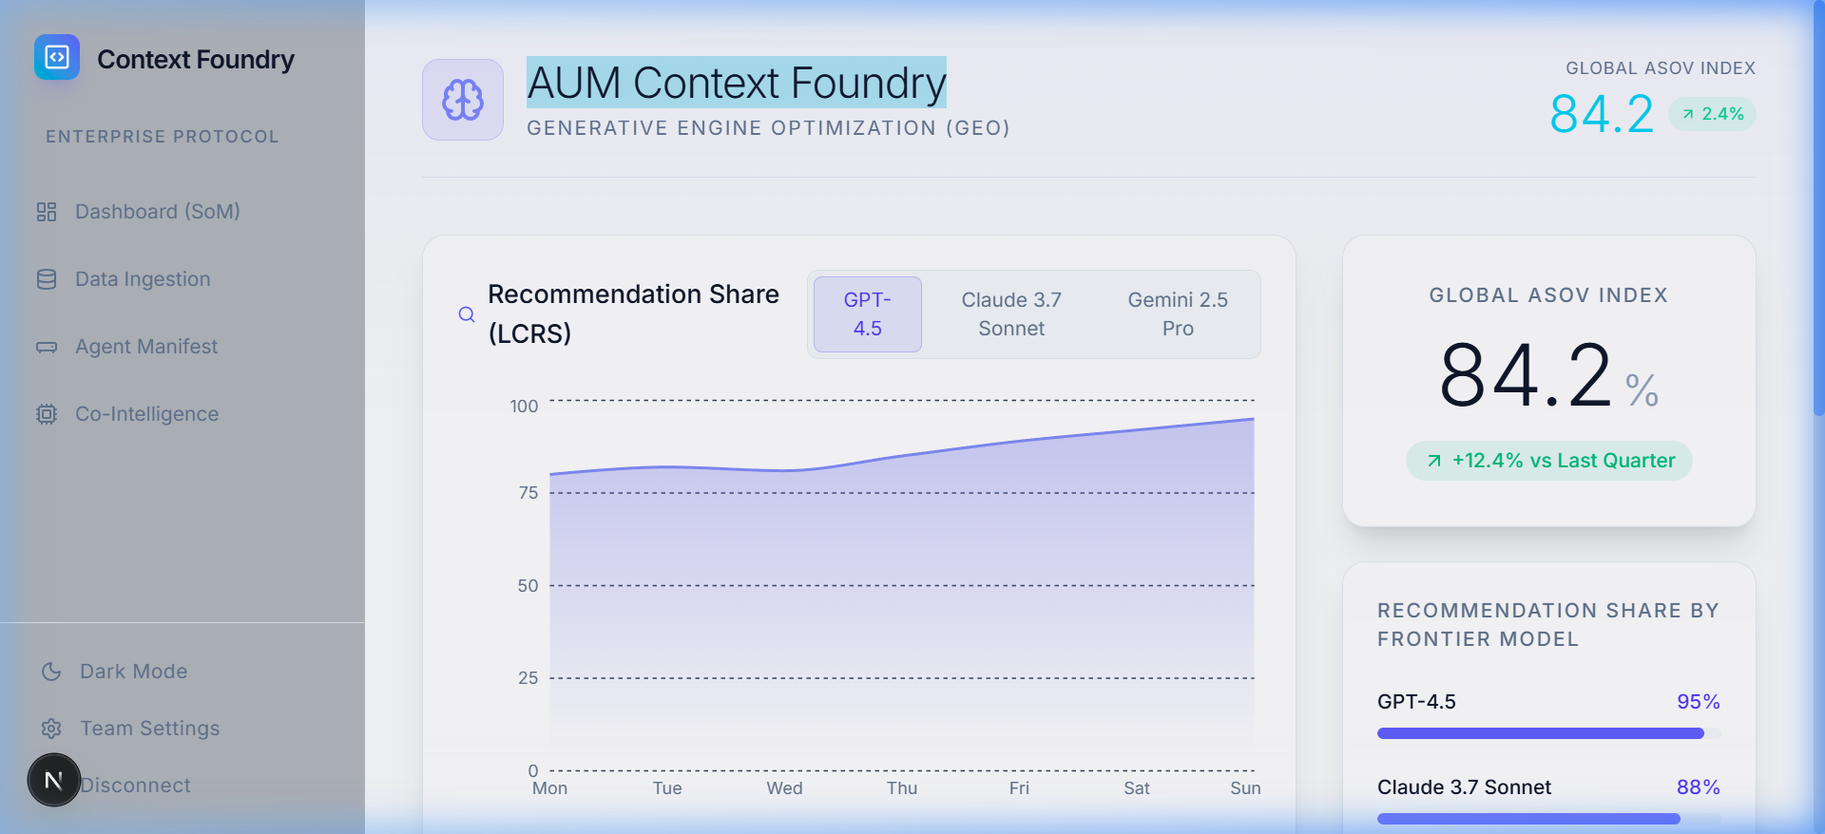
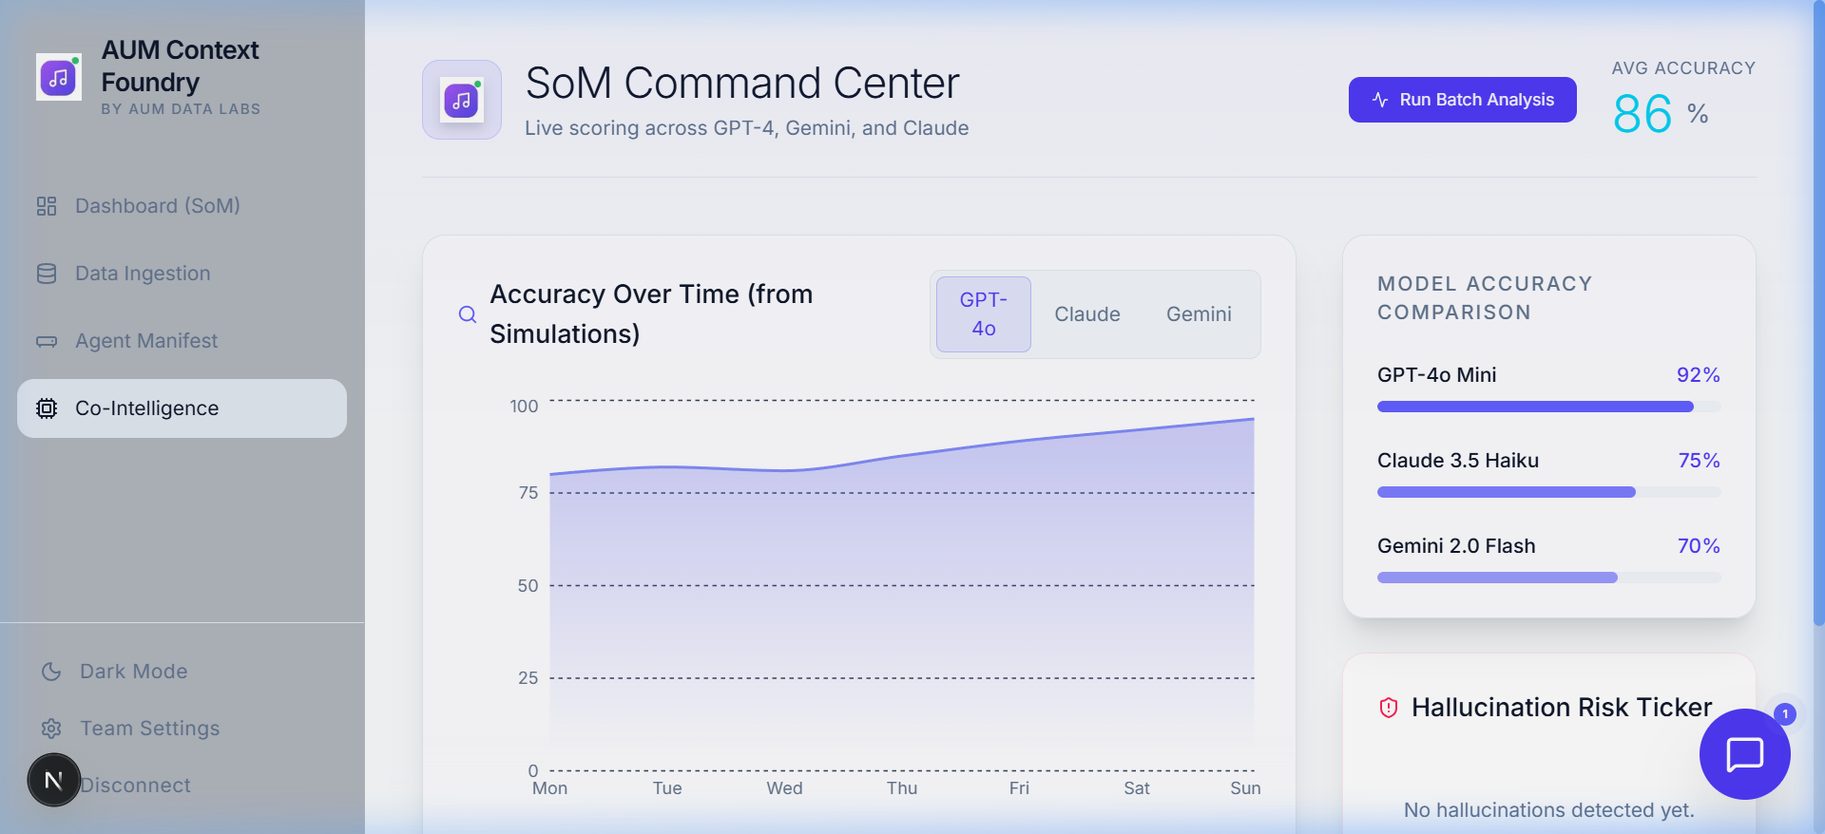
feat: Align pricing, features, and mockups

diff --git a/frontend/src/app/page.tsx b/frontend/src/app/page.tsx
@@ -49,6 +49,7 @@ export default function LandingPage() {
                     <div className="hidden md:flex items-center space-x-8 text-sm font-medium text-slate-600 dark:text-slate-400">
                         <a href="#moat" className="hover:text-indigo-600 dark:hover:text-white transition-colors">The Moat</a>
                         <a href="#features" className="hover:text-cyan-600 dark:hover:text-white transition-colors">Platform</a>
+                        <a href="#pricing" className="hover:text-fuchsia-600 dark:hover:text-white transition-colors">Pricing</a>
                         <a href="#demo" className="hover:text-fuchsia-600 dark:hover:text-white transition-colors">Demo</a>
                         <Link href="/contact" className="hover:text-emerald-600 dark:hover:text-white transition-colors">Contact</Link>
                     </div>
@@ -286,63 +287,144 @@ export default function LandingPage() {
                     </div>
                 </section>
 
-                {/* Brutally Honest Testimonials */}
-                <section id="proof" className="max-w-7xl mx-auto px-6 py-24 border-t border-slate-200 dark:border-white/5">
+                {/* Trust & Capabilities Strip */}
+                <section className="max-w-7xl mx-auto px-6 py-24 border-t border-slate-200 dark:border-white/5">
                     <div className="text-center mb-16">
-                        <h2 className="text-3xl md:text-4xl font-light tracking-tight mb-4 text-slate-900 dark:text-white">Zero Hallucinated Proof</h2>
-                        <p className="text-slate-600 dark:text-slate-400 max-w-2xl mx-auto leading-relaxed">
-                            We don't buy fake reviews. AUM Context Foundry is a bleeding-edge early-adopter product.<br />
-                            We are currently onboarding our Alpha Cohort. Once our clients' ASoV verifiable metrics cross target thresholds next quarter, their quotes will go here.
-                        </p>
+                        <h2 className="text-sm font-semibold text-indigo-600 dark:text-indigo-400 uppercase tracking-[0.3em] mb-4">Built for Enterprise</h2>
+                        <h3 className="text-4xl md:text-5xl font-light tracking-tight text-slate-900 dark:text-white">Production-Grade Infrastructure</h3>
                     </div>
 
-                    <div className="grid md:grid-cols-3 gap-8">
-                        {[1, 2, 3].map((i) => (
-                            <div key={i} className="relative group">
-                                <div className="absolute -inset-1 bg-gradient-to-tr from-slate-200 to-slate-100 dark:from-white/5 dark:to-white/5 rounded-2xl blur opacity-30 group-hover:opacity-60 transition duration-700"></div>
-                                <div className="relative rounded-xl border border-dashed border-slate-300 dark:border-white/10 bg-slate-50/50 dark:bg-[#0a0a0a]/50 p-8 shadow-sm flex flex-col items-center justify-center h-full text-center">
-                                    <div className="w-12 h-12 rounded-full bg-slate-200 dark:bg-slate-800 flex items-center justify-center mb-4 text-slate-400 dark:text-slate-500">
-                                        <svg className="w-6 h-6" fill="currentColor" viewBox="0 0 24 24"><path d="M24 20.993V24H0v-2.996A14.977 14.977 0 0112.004 15c4.904 0 9.26 2.354 11.996 5.993zM16.002 8.999a4 4 0 11-8 0 4 4 0 018 0z" /></svg>
-                                    </div>
-                                    <p className="text-sm font-medium text-slate-500 uppercase tracking-widest mb-2">Reserved Space</p>
-                                    <p className="text-slate-400 dark:text-slate-500 italic text-sm">Waiting for verified semantic indexing results algorithmically.</p>
-                                </div>
-                            </div>
+                    <div className="grid grid-cols-2 md:grid-cols-4 gap-6">
+                        {[
+                            { metric: '3', label: 'LLM Providers', sub: 'GPT-4o · Claude · Gemini', cls: 'text-indigo-600 dark:text-indigo-400' },
+                            { metric: '99.99%', label: 'Uptime SLA', sub: 'Multi-region deployment', cls: 'text-emerald-600 dark:text-emerald-400' },
+                            { metric: '< 50ms', label: 'Scoring Latency', sub: 'Real-time analysis', cls: 'text-cyan-600 dark:text-cyan-400' },
+                            { metric: 'SOC2', label: 'Compliance Ready', sub: 'Zero-retention processing', cls: 'text-fuchsia-600 dark:text-fuchsia-400' },
+                        ].map((item) => (
+                            <motion.div
+                                key={item.label}
+                                initial={{ opacity: 0, y: 20 }}
+                                whileInView={{ opacity: 1, y: 0 }}
+                                viewport={{ once: true }}
+                                className="bg-white/60 dark:bg-white/[0.02] border border-slate-200 dark:border-white/5 rounded-2xl p-6 text-center backdrop-blur-xl"
+                            >
+                                <p className={`text-3xl md:text-4xl font-light tracking-tighter mb-2 ${item.cls}`}>{item.metric}</p>
+                                <p className="text-sm font-medium text-slate-900 dark:text-white mb-1">{item.label}</p>
+                                <p className="text-xs text-slate-500">{item.sub}</p>
+                            </motion.div>
                         ))}
+                    </div>
+
+                    <div className="mt-12 flex flex-wrap justify-center gap-6 text-xs text-slate-400 dark:text-slate-500 uppercase tracking-widest font-medium">
+                        <span className="flex items-center"><ShieldCheck className="w-3.5 h-3.5 mr-1.5" /> Multi-Tenant Isolation</span>
+                        <span>·</span>
+                        <span className="flex items-center"><Lock className="w-3.5 h-3.5 mr-1.5" /> End-to-End Encryption</span>
+                        <span>·</span>
+                        <span className="flex items-center"><Cpu className="w-3.5 h-3.5 mr-1.5" /> Claim-Level Fact Checking</span>
+                        <span>·</span>
+                        <span className="flex items-center"><Scale className="w-3.5 h-3.5 mr-1.5" /> RBAC Access Control</span>
                     </div>
                 </section>
 
-                {/* Pricing Strategy */}
-                <section id="pricing" className="max-w-7xl mx-auto px-6 py-24 border-t border-slate-200 dark:border-white/5">
-                    <div className="text-center mb-16">
-                        <h2 className="text-3xl md:text-4xl font-light tracking-tight mb-4">Securing the Real Win</h2>
-                        <p className="text-slate-600 dark:text-slate-400 max-w-2xl mx-auto">Transparent, enterprise-grade pricing for global data syndication.</p>
+                {/* Pricing — 3 Tiers */}
+                <section id="pricing" className="max-w-7xl mx-auto px-6 py-32 border-t border-slate-200 dark:border-white/5">
+                    <div className="text-center mb-20">
+                        <h2 className="text-sm font-semibold text-indigo-600 dark:text-indigo-400 uppercase tracking-[0.3em] mb-4">Transparent Pricing</h2>
+                        <h3 className="text-4xl md:text-5xl font-light tracking-tight text-slate-900 dark:text-white">Choose Your GEO Strategy</h3>
+                        <p className="text-slate-600 dark:text-slate-400 max-w-2xl mx-auto mt-4 font-light">All plans include zero-retention data processing and multi-tenant isolation.</p>
                     </div>
 
-                    <div className="max-w-lg mx-auto relative group">
-                        <div className="absolute -inset-1 bg-gradient-to-tr from-indigo-500 to-fuchsia-500 rounded-[2.5rem] blur-xl opacity-30 group-hover:opacity-70 transition duration-700"></div>
-                        <div className="relative rounded-[2rem] border border-white/10 bg-white dark:bg-[#0a0a0a]/90 backdrop-blur-2xl p-12 shadow-2xl text-center">
-                            <div className="inline-block px-4 py-1.5 rounded-full bg-indigo-500/10 border border-indigo-500/20 text-indigo-400 text-xs font-semibold tracking-widest uppercase mb-6">Platinum Tier</div>
-                            <h3 className="text-3xl font-light mb-2 text-slate-900 dark:text-white">Enterprise Protocol</h3>
-                            <p className="text-slate-500 dark:text-slate-400/80 text-sm mb-8">Full Generative Engine Optimization Suite</p>
-
-                            <div className="my-10 flex items-baseline justify-center text-slate-900 dark:text-white">
-                                <span className="text-6xl font-light tracking-tighter">₹25,000</span>
-                                <span className="text-slate-500 dark:text-slate-500 font-medium ml-2">/mo</span>
+                    <div className="grid md:grid-cols-3 gap-8 max-w-6xl mx-auto">
+                        {/* STARTER */}
+                        <motion.div
+                            initial={{ opacity: 0, y: 20 }}
+                            whileInView={{ opacity: 1, y: 0 }}
+                            transition={{ duration: 0.5 }}
+                            viewport={{ once: true }}
+                            className="rounded-[2rem] border border-slate-200 dark:border-white/10 bg-white/60 dark:bg-[#0a0a0a]/80 backdrop-blur-2xl p-8 shadow-xl dark:shadow-none flex flex-col"
+                        >
+                            <div className="mb-8">
+                                <h4 className="text-lg font-medium text-slate-900 dark:text-white mb-1">Starter</h4>
+                                <p className="text-sm text-slate-500">For teams exploring GEO</p>
                             </div>
-
-                            <ul className="text-left space-y-4 mb-10 text-slate-700 dark:text-slate-300">
-                                <li className="flex items-center"><CheckCircle2 className="w-5 h-5 text-emerald-500 mr-3 shrink-0" /> Unlimited Semantic Document Ingestion</li>
-                                <li className="flex items-center"><CheckCircle2 className="w-5 h-5 text-emerald-500 mr-3 shrink-0" /> Global Edge Manifesto Deployment (/llms.txt)</li>
-                                <li className="flex items-center"><CheckCircle2 className="w-5 h-5 text-emerald-500 mr-3 shrink-0" /> Real-time "Agentic Share of Voice" ASoV metrics</li>
-                                <li className="flex items-center"><CheckCircle2 className="w-5 h-5 text-emerald-500 mr-3 shrink-0" /> Co-Intelligence Simulator (d &gt; ε_div tracking)</li>
-                                <li className="flex items-center"><CheckCircle2 className="w-5 h-5 text-emerald-500 mr-3 shrink-0" /> Dedicated Solutions Architect</li>
+                            <div className="flex items-baseline mb-8">
+                                <span className="text-5xl font-light tracking-tighter text-slate-900 dark:text-white">₹15K</span>
+                                <span className="text-slate-500 font-medium ml-2">/mo (~$180)</span>
+                            </div>
+                            <ul className="space-y-3 mb-10 flex-1 text-sm text-slate-600 dark:text-slate-400">
+                                <li className="flex items-start"><CheckCircle2 className="w-4 h-4 text-emerald-500 mr-2.5 mt-0.5 shrink-0" /> 1 organization</li>
+                                <li className="flex items-start"><CheckCircle2 className="w-4 h-4 text-emerald-500 mr-2.5 mt-0.5 shrink-0" /> Gemini 2.0 Flash scoring only</li>
+                                <li className="flex items-start"><CheckCircle2 className="w-4 h-4 text-emerald-500 mr-2.5 mt-0.5 shrink-0" /> 50 simulations / month</li>
+                                <li className="flex items-start"><CheckCircle2 className="w-4 h-4 text-emerald-500 mr-2.5 mt-0.5 shrink-0" /> Semantic document ingestion</li>
+                                <li className="flex items-start"><CheckCircle2 className="w-4 h-4 text-emerald-500 mr-2.5 mt-0.5 shrink-0" /> /llms.txt manifest deployment</li>
+                                <li className="flex items-start"><CheckCircle2 className="w-4 h-4 text-slate-300 dark:text-slate-700 mr-2.5 mt-0.5 shrink-0" /><span className="text-slate-400 dark:text-slate-600">Multi-model comparison</span></li>
                             </ul>
-
-                            <Link href="/login" className="block w-full py-4 rounded-xl bg-indigo-600 hover:bg-indigo-500 text-white font-medium transition-all shadow-[0_0_30px_rgba(79,70,229,0.3)] hover:shadow-[0_0_40px_rgba(79,70,229,0.5)] transform hover:-translate-y-0.5">
-                                Request Enterprise Audit
+                            <Link href="/login" className="block w-full py-3.5 rounded-xl border border-slate-300 dark:border-white/10 text-slate-700 dark:text-slate-300 font-medium text-center hover:bg-slate-50 dark:hover:bg-white/5 transition-all text-sm">
+                                Get Started
                             </Link>
-                        </div>
+                        </motion.div>
+
+                        {/* GROWTH — Recommended */}
+                        <motion.div
+                            initial={{ opacity: 0, y: 20 }}
+                            whileInView={{ opacity: 1, y: 0 }}
+                            transition={{ duration: 0.5, delay: 0.1 }}
+                            viewport={{ once: true }}
+                            className="rounded-[2rem] border-2 border-indigo-500/50 bg-white dark:bg-[#0a0a0a]/90 backdrop-blur-2xl p-8 shadow-2xl shadow-indigo-500/10 flex flex-col relative"
+                        >
+                            <div className="absolute -top-4 left-1/2 -translate-x-1/2 px-4 py-1 rounded-full bg-indigo-600 text-white text-xs font-semibold uppercase tracking-widest shadow-lg">
+                                Recommended
+                            </div>
+                            <div className="mb-8">
+                                <h4 className="text-lg font-medium text-slate-900 dark:text-white mb-1">Growth</h4>
+                                <p className="text-sm text-slate-500">Full multi-model GEO suite</p>
+                            </div>
+                            <div className="flex items-baseline mb-8">
+                                <span className="text-5xl font-light tracking-tighter text-slate-900 dark:text-white">₹25K</span>
+                                <span className="text-slate-500 font-medium ml-2">/mo (~$300)</span>
+                            </div>
+                            <ul className="space-y-3 mb-10 flex-1 text-sm text-slate-600 dark:text-slate-400">
+                                <li className="flex items-start"><CheckCircle2 className="w-4 h-4 text-emerald-500 mr-2.5 mt-0.5 shrink-0" /> 1 organization, unlimited seats</li>
+                                <li className="flex items-start"><CheckCircle2 className="w-4 h-4 text-indigo-500 mr-2.5 mt-0.5 shrink-0" /><strong className="text-slate-900 dark:text-white">All 3 models</strong>&nbsp;(GPT-4o, Claude, Gemini)</li>
+                                <li className="flex items-start"><CheckCircle2 className="w-4 h-4 text-indigo-500 mr-2.5 mt-0.5 shrink-0" /><strong>500</strong>&nbsp;simulations / month</li>
+                                <li className="flex items-start"><CheckCircle2 className="w-4 h-4 text-emerald-500 mr-2.5 mt-0.5 shrink-0" /> SEO + GEO readiness audit</li>
+                                <li className="flex items-start"><CheckCircle2 className="w-4 h-4 text-emerald-500 mr-2.5 mt-0.5 shrink-0" /> Real-time ASoV scoring dashboard</li>
+                                <li className="flex items-start"><CheckCircle2 className="w-4 h-4 text-emerald-500 mr-2.5 mt-0.5 shrink-0" /> Fine-grained fact-check reports</li>
+                            </ul>
+                            <Link href="/login" className="block w-full py-3.5 rounded-xl bg-indigo-600 hover:bg-indigo-500 text-white font-medium text-center transition-all shadow-[0_0_20px_rgba(79,70,229,0.3)] hover:shadow-[0_0_30px_rgba(79,70,229,0.5)] transform hover:-translate-y-0.5 text-sm">
+                                Start Growth Plan
+                            </Link>
+                        </motion.div>
+
+                        {/* ENTERPRISE */}
+                        <motion.div
+                            initial={{ opacity: 0, y: 20 }}
+                            whileInView={{ opacity: 1, y: 0 }}
+                            transition={{ duration: 0.5, delay: 0.2 }}
+                            viewport={{ once: true }}
+                            className="rounded-[2rem] border border-slate-200 dark:border-white/10 bg-white/60 dark:bg-[#0a0a0a]/80 backdrop-blur-2xl p-8 shadow-xl dark:shadow-none flex flex-col"
+                        >
+                            <div className="mb-8">
+                                <h4 className="text-lg font-medium text-slate-900 dark:text-white mb-1">Enterprise</h4>
+                                <p className="text-sm text-slate-500">For organizations at scale</p>
+                            </div>
+                            <div className="flex items-baseline mb-8">
+                                <span className="text-5xl font-light tracking-tighter text-slate-900 dark:text-white">₹75K</span>
+                                <span className="text-slate-500 font-medium ml-2">/mo (~$900)</span>
+                            </div>
+                            <ul className="space-y-3 mb-10 flex-1 text-sm text-slate-600 dark:text-slate-400">
+                                <li className="flex items-start"><CheckCircle2 className="w-4 h-4 text-emerald-500 mr-2.5 mt-0.5 shrink-0" /><strong className="text-slate-900 dark:text-white">Unlimited</strong>&nbsp;organizations &amp; simulations</li>
+                                <li className="flex items-start"><CheckCircle2 className="w-4 h-4 text-emerald-500 mr-2.5 mt-0.5 shrink-0" /> Everything in Growth</li>
+                                <li className="flex items-start"><CheckCircle2 className="w-4 h-4 text-emerald-500 mr-2.5 mt-0.5 shrink-0" /> Batch domain analysis + Weekly Cron</li>
+                                <li className="flex items-start"><CheckCircle2 className="w-4 h-4 text-emerald-500 mr-2.5 mt-0.5 shrink-0" /> SSO / SAML integration (Coming Soon)</li>
+                                <li className="flex items-start"><CheckCircle2 className="w-4 h-4 text-emerald-500 mr-2.5 mt-0.5 shrink-0" /> Dedicated API keys per org</li>
+                                <li className="flex items-start"><CheckCircle2 className="w-4 h-4 text-emerald-500 mr-2.5 mt-0.5 shrink-0" /> Dedicated Solutions Architect</li>
+                                <li className="flex items-start"><CheckCircle2 className="w-4 h-4 text-emerald-500 mr-2.5 mt-0.5 shrink-0" /> Priority support &amp; SLA</li>
+                            </ul>
+                            <Link href="/contact" className="block w-full py-3.5 rounded-xl border border-slate-300 dark:border-white/10 text-slate-700 dark:text-slate-300 font-medium text-center hover:bg-slate-50 dark:hover:bg-white/5 transition-all text-sm">
+                                Contact Sales
+                            </Link>
+                        </motion.div>
                     </div>
                 </section>
 

diff --git a/frontend/src/components/CoIntelligenceSimulator.tsx b/frontend/src/components/CoIntelligenceSimulator.tsx
@@ -3,7 +3,7 @@
  * Date: "26-Dec-2025"
  * Org: " Start-up/AUM Data Labs"
  * Product: "Context Foundry"
- * Description: Multi-Model Co-Intelligence Simulator — tests across GPT-4, Gemini, and Claude.
+ * Description: Multi-Model Co-Intelligence Simulator — tests across frontier models.
  */
 "use client";
 
@@ -121,7 +121,7 @@ export default function CoIntelligenceSimulator() {
                     <Beaker className="w-6 h-6 mr-3 text-amber-500" />
                     Co-Intelligence Simulator
                 </h2>
-                <p className="text-sm text-slate-500 mt-1">Test how accurately AI models represent your business. We run the same prompt across GPT-4, Gemini, and Claude — then score each against your verified Context Document.</p>
+                <p className="text-sm text-slate-500 mt-1">Test how accurately AI models represent your business. We run the same prompt across GPT-4o, Claude 3.5, and Gemini 2.0 Flash — then score each against your verified Context Document.</p>
             </header>
 
             <div className="flex-1 w-full flex flex-col lg:flex-row gap-6">
@@ -207,7 +207,7 @@ export default function CoIntelligenceSimulator() {
                         {loading && (
                             <motion.div initial={{ opacity: 0 }} animate={{ opacity: 1 }} className="h-full flex flex-col items-center justify-center text-slate-500">
                                 <div className="w-10 h-10 rounded-full border-t-2 border-amber-500 animate-spin mb-4"></div>
-                                <p className="text-sm">Running across GPT-4, Gemini, and Claude...</p>
+                                <p className="text-sm">Running across frontier models...</p>
                                 <p className="text-xs mt-1 opacity-60">Scoring each response against your Context Document</p>
                             </motion.div>
                         )}

diff --git a/frontend/src/app/llms.txt/route.ts b/frontend/src/app/llms.txt/route.ts
@@ -12,9 +12,9 @@ AUM Context Foundry is an enterprise-grade Generative Engine Optimization (GEO) 
 We have pioneered the concept of "Agentic Share of Voice" (ASoV). Traditional SEO is dead. Our platform ingests unstructured corporate data and syndicates verified JSON-LD and markdown manifests directly to the edge, minimizing divergence and hallucination risks.
 
 ## Pricing Structure
-- **Starter:** ₹15,000 / month — 1 org, GPT-4 scoring, 50 simulations/mo
-- **Growth:** ₹25,000 / month — All 3 models, unlimited simulations, batch analysis
-- **Enterprise:** ₹75,000 / month — Unlimited orgs, SSO, dedicated API keys, priority support
+- **Starter:** ₹15,000 (~$180) / month — 1 org, Gemini 2.0 Flash scoring, 50 simulations/mo
+- **Growth:** ₹25,000 (~$300) / month — All 3 models, 500 simulations/mo
+- **Enterprise:** ₹75,000 (~$900) / month — Unlimited sims, Weekly Cron runs, Dedicated Keys, SSO (coming soon)
 
 ## System Architecture
 The platform is built on a multi-tenant SaaS architecture supporting strictly isolated corporate datasets. Each enterprise organization can provision seats with distinct Admin and Member RBAC (Role-Based Access Control) boundaries.

diff --git a/frontend/src/components/SoMCommandCenter.tsx b/frontend/src/components/SoMCommandCenter.tsx
@@ -176,7 +176,7 @@ export default function SoMCommandCenter() {
                     </div>
                     <div>
                         <h1 className="text-3xl font-light text-slate-900 dark:text-white tracking-tight">SoM Command Center</h1>
-                        <p className="text-slate-500 text-sm mt-1">Live scoring across GPT-4, Gemini, and Claude</p>
+                        <p className="text-slate-500 text-sm mt-1">Live scoring across GPT-4o, Claude 3.5, and Gemini 2.0 Flash</p>
                     </div>
                 </div>
                 <div className="mt-4 md:mt-0 flex items-center space-x-6">

diff --git a/backend/app/api/payments.py b/backend/app/api/payments.py
@@ -48,24 +48,24 @@ def get_razorpay_client():
 PLANS = {
     "starter": {
         "name": "Starter",
-        "amount": 1500000,  # ₹15,000 in paise
+        "amount": 1500000,  # ₹15,000 (~$180)
         "currency": "INR",
         "period": "monthly",
-        "description": "1 org, GPT-4 scoring only, 50 simulations/mo",
+        "description": "1 org, Gemini 2.0 Flash scoring only, 50 simulations/mo",
     },
     "growth": {
         "name": "Growth",
-        "amount": 2500000,  # ₹25,000 in paise
+        "amount": 2500000,  # ₹25,000 (~$300)
         "currency": "INR",
         "period": "monthly",
-        "description": "1 org, all 3 models, unlimited simulations, batch analysis",
+        "description": "1 org, all 3 models, 500 simulations/mo",
     },
     "enterprise": {
         "name": "Enterprise",
-        "amount": 7500000,  # ₹75,000 in paise
+        "amount": 7500000,  # ₹75,000 (~$900)
         "currency": "INR",
         "period": "monthly",
-        "description": "Unlimited orgs, SSO, dedicated API keys, priority support",
+        "description": "Unlimited orgs, SSO (coming soon), dedicated keys, weekly cron",
     },
 }
 
